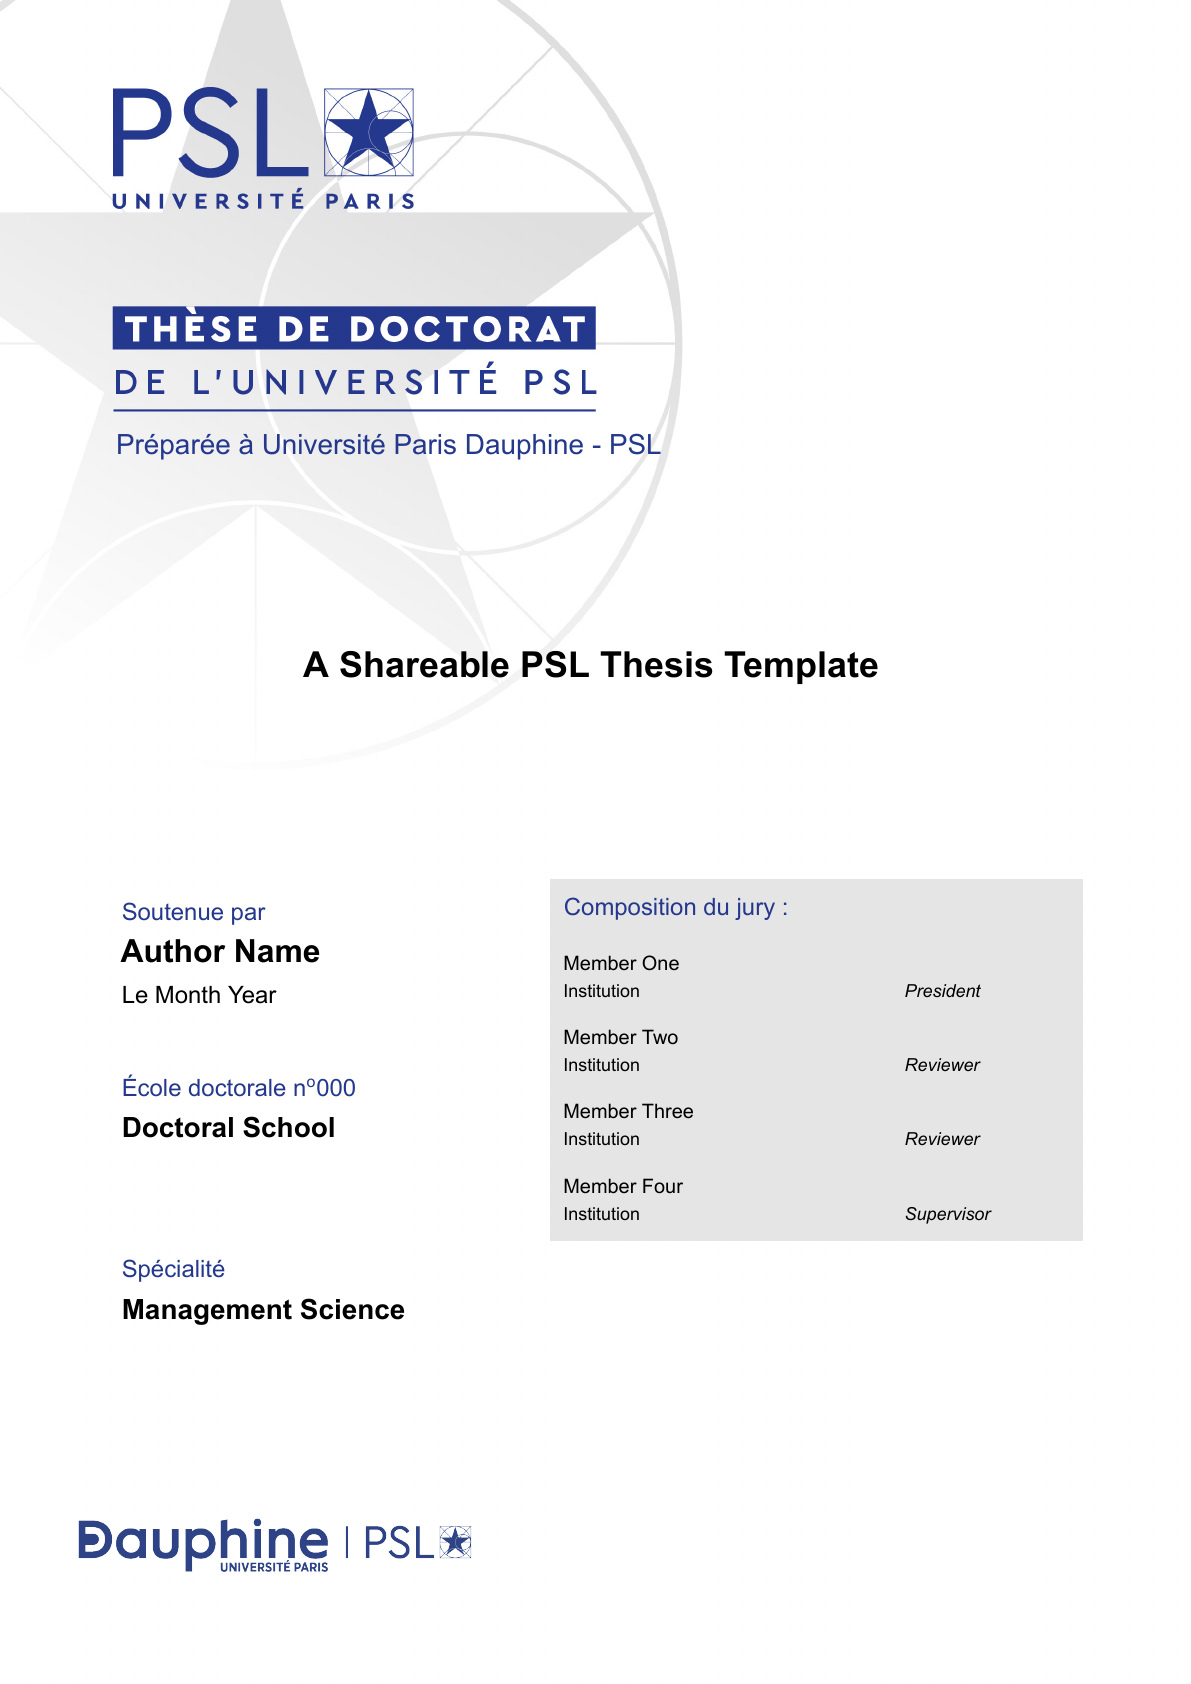
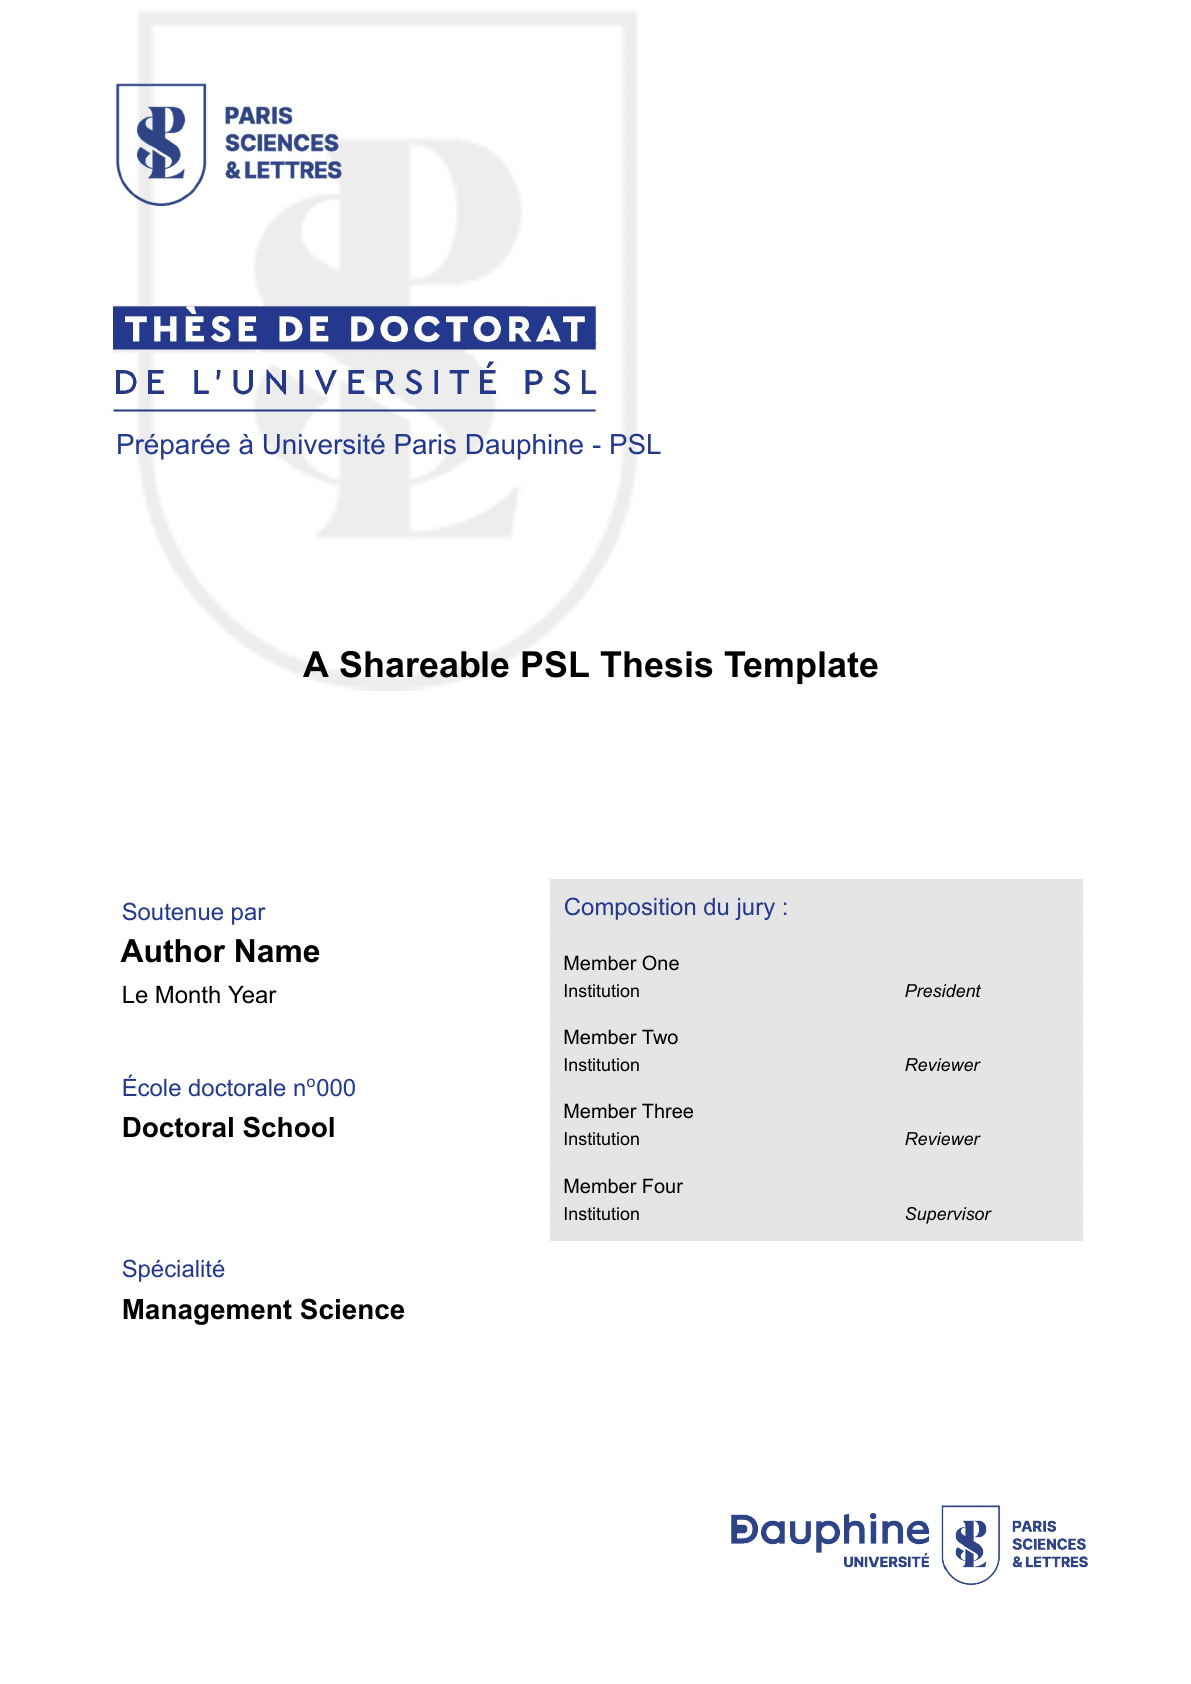
Update Dauphine PSL cover assets

diff --git a/Dauphine Thesis Manuscript Template/ATTRIBUTION.md b/Dauphine Thesis Manuscript Template/ATTRIBUTION.md
@@ -7,7 +7,6 @@ This template includes a modified copy of the PSL thesis cover package and relat
 - `psl-cover.sty`
 - `assets/cover/front-bg.jpg`
 - `assets/cover/back-bg.png`
-- `assets/cover/logo-institute.jpg`
 - `assets/cover/logo-institute.png`
 
 ## Original author
@@ -22,4 +21,5 @@ This template includes a modified copy of the PSL thesis cover package and relat
 
 - The original copyright and license notice remains inside `psl-cover.sty`.
 - This template uses a locally adapted version of the cover package for a reusable manuscript skeleton.
+- The tracked institute logo was refreshed for the current Paris Dauphine - PSL visual identity.
 - If you redistribute this template, keep the attribution and preserve a GPL-compatible distribution path for the modified cover package.

diff --git a/GUIDE.md b/GUIDE.md
@@ -67,6 +67,8 @@ Main entry points:
 - `main.tex` (full manuscript)
 - `chapter-ch1.tex` to `chapter-ch4.tex` (standalone chapter builds)
 
+The manuscript template includes the refreshed Paris Dauphine - PSL cover assets.
+
 ### What to edit first
 
 1. `Dauphine Thesis Manuscript Template/config/cover-metadata.tex`

diff --git a/README.md b/README.md
@@ -51,6 +51,8 @@ Main entry points:
 - `main.tex` for the full manuscript
 - `chapter-ch1.tex` to `chapter-ch4.tex` to compile individual chapters
 
+The manuscript template uses the refreshed Paris Dauphine - PSL cover assets.
+
 Previews:
 
 | Manuscript cover | Chapter preview |
